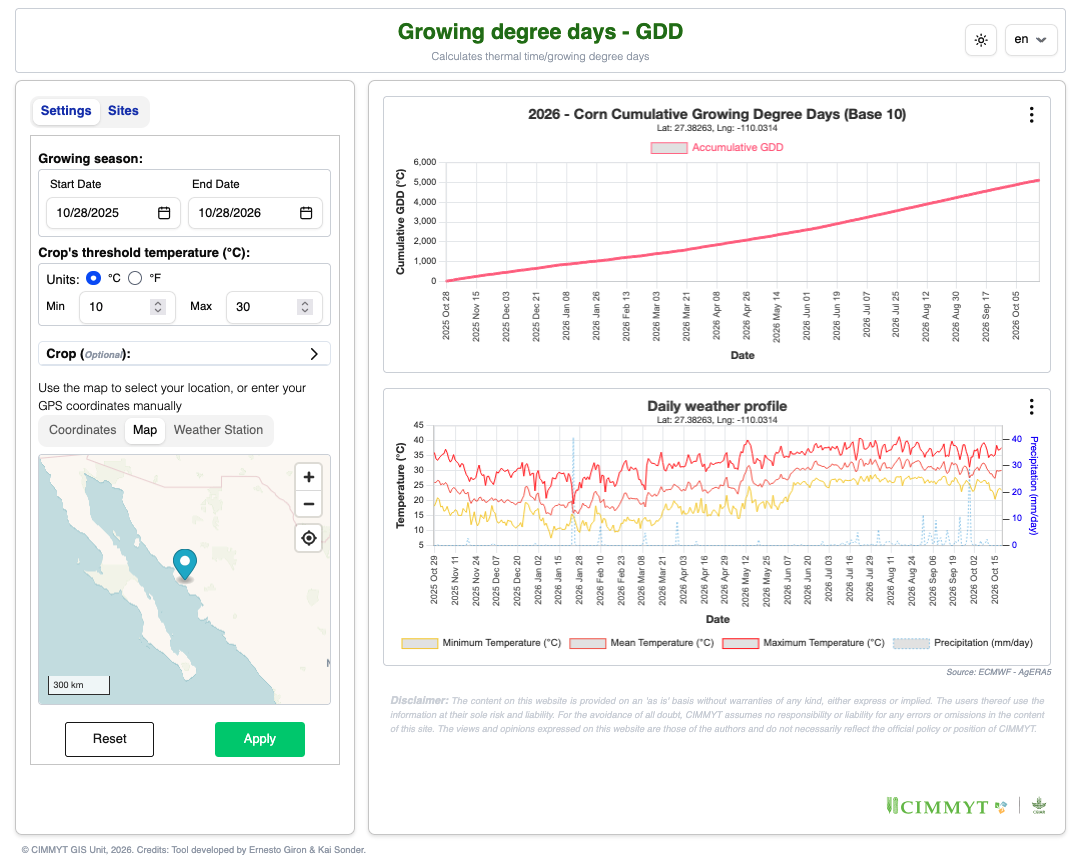
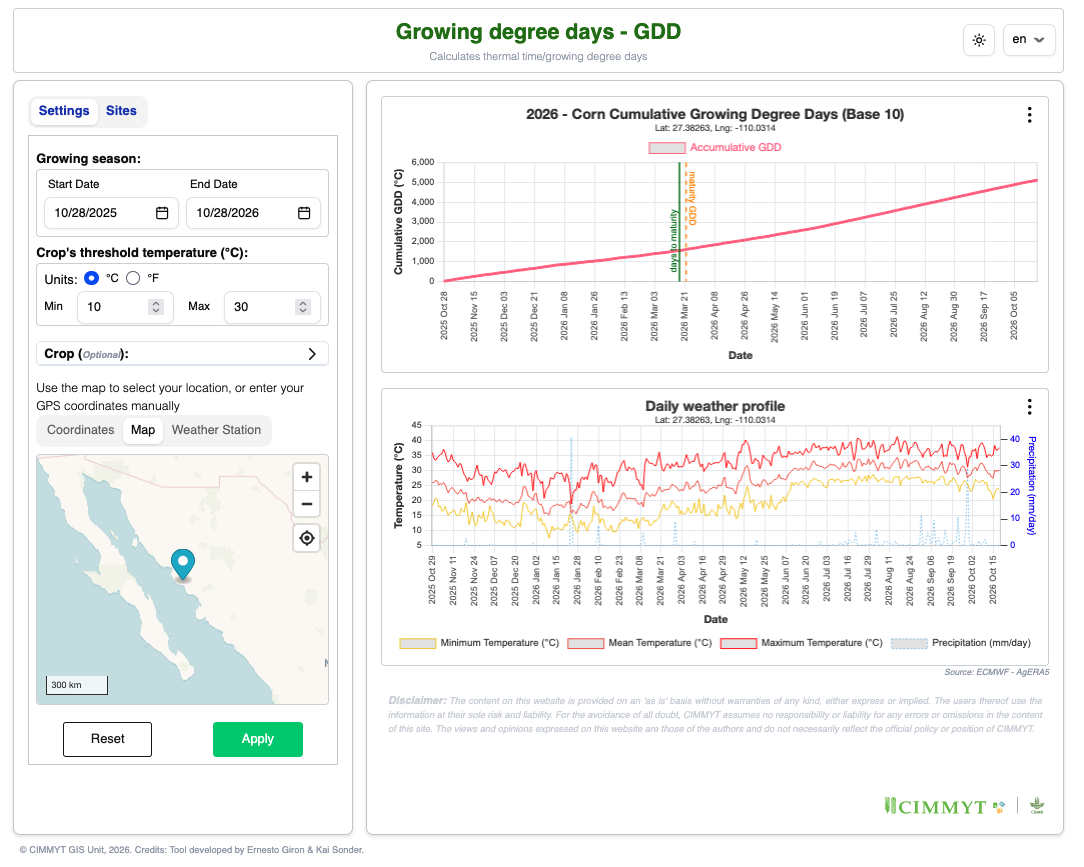
README License updated

diff --git a/README.md b/README.md
@@ -1,8 +1,20 @@
-<img src="gdd.png" alt="GDD" width="100%" height="auto">
+<p align="center">
+    <img src="gdd.png" alt="GDD" width="100%" height="auto">
+</p>
+
+<p align="center">
+  <!-- <a href="https://github.com/egiron/GDD/actions"><img
+    src="https://github.com/egiron/GDD/actions/workflows/ci.yaml/badge.svg"
+    alt="Build"
+  /></a> -->
+  <a href="https://opensource.org/licenses/"><img
+    src="https://img.shields.io/badge/License-GPL%20v3-yellow.svg"
+    alt="GPLv3 License"
+  /></a>
+  
+</p>
 
 # Growing degree days (GDD)
-
-This repository contains the code that support the website for .
 
 A web-based tool for exploring and estimating thermal time/growing degree days using agERA5 datasets.
 
@@ -19,7 +31,7 @@ git clone https://github.com/egiron/GDD.git
 cd GDD
 ```
 
-1. **Install dependencies**
+2. **Install dependencies**
 
 Install dependencies with `npm install`.
 
@@ -34,7 +46,7 @@ To recreate this project with the same configuration from scratch:
 npx sv@0.17.0 create --template minimal --types ts --add prettier eslint vitest="usages:unit,component" tailwindcss="plugins:typography,forms" sveltekit-adapter="adapter:static" --install npm webapp
 ```
 
-## Developing
+### Developing
 
 Once you've created a project and installed dependencies with `npm install` (or `pnpm install` or `yarn`), start a development server:
 
@@ -45,7 +57,7 @@ npm run dev
 npm run dev -- --open
 ```
 
-## Building
+### Building
 
 To create a production version of your app:
 
@@ -65,12 +77,12 @@ Open [egiron.github.io/GDD/](https://egiron.github.io/GDD/) to explore current v
 
 ### 2. Select a range of dates for growing season
 
-Define the start and end date in MM/DD/YYYY format for the growing period
+Define the start and end dates in MM/DD/YYYY format for the growing period
 
 ### 4. Define a crop's threshold temperature
 
-- Select the respective units Celsius degrees or Fahrenheit (°C or °F)
-- Select the minimum and maximum value for the threshold
+- Select the units in Celsius degrees or Fahrenheit (°C or °F)
+- Select the minimum and maximum values for the threshold
 
 Another way to select the thresholds is using a predefined boundaries by selecting a crop/insect/disease to automatically setup the threshold temperatures.
 
@@ -88,14 +100,39 @@ The geographic coordinates (_Latitude/Longitude_) should be in decimal degrees i
 
 Upload your own station daily data to apply GDD
 
-
 ### 8. Generate the Interactive Figures
 
 Click `Apply` to execute the GDD algorithm. This may take a couple of minutes.
 
+### 9. Export the Results
+
+Export the raw weather data and Figures from each run in DSSAT, APSIM, CSV, TXT, XLSX, PNG, and JPG formats
+
 ## License
 
-MIT License — see LICENSE file for details.
+**MIT License**
+
+Copyright (c) 2026 
+
+Permission is hereby granted, free of charge, to any person obtaining a copy
+of this software and associated documentation files (the "Software"), to
+deal in the Software without restriction, including without limitation the
+rights to use, copy, modify, merge, publish, distribute, sublicense, and/or
+sell copies of the Software, and to permit persons to whom the Software is
+furnished to do so, subject to the following conditions:
+
+The above copyright notice and this permission notice shall be included in
+all copies or substantial portions of the Software.
+
+THE SOFTWARE IS PROVIDED "AS IS", WITHOUT WARRANTY OF ANY KIND, EXPRESS OR
+IMPLIED, INCLUDING BUT NOT LIMITED TO THE WARRANTIES OF MERCHANTABILITY,
+FITNESS FOR A PARTICULAR PURPOSE AND NON-INFRINGEMENT. IN NO EVENT SHALL THE
+AUTHORS OR COPYRIGHT HOLDERS BE LIABLE FOR ANY CLAIM, DAMAGES OR OTHER
+LIABILITY, WHETHER IN AN ACTION OF CONTRACT, TORT OR OTHERWISE, ARISING
+FROM, OUT OF OR IN CONNECTION WITH THE SOFTWARE OR THE USE OR OTHER DEALINGS
+IN THE SOFTWARE.
+
+Copyright (c) 2026 International Maize and Wheat Improvement Center (CIMMYT)
 
 ## Authors
 
